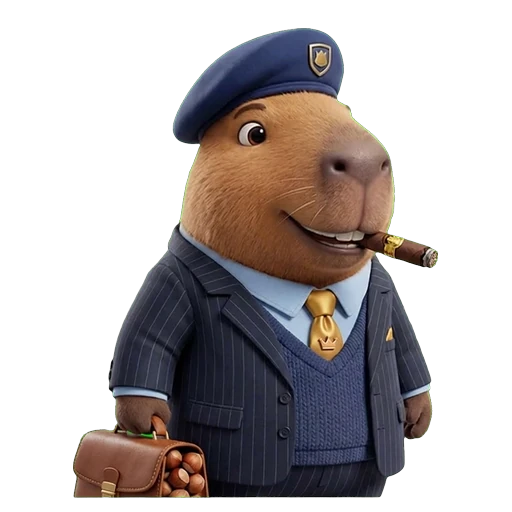
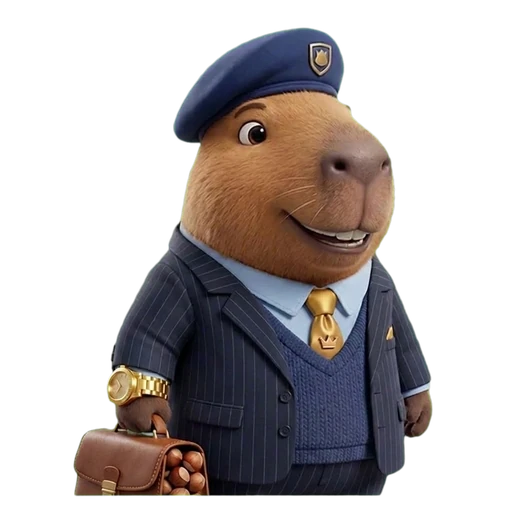
V492: Big Boss (Blue) without cigar, chunky gold wristwatch instead
Claude-Session: https://claude.ai/code/session_019cECXHUE5xem2kLmZwD2ZK

diff --git a/site/index.html b/site/index.html
@@ -2787,7 +2787,7 @@ if(window.caches)p.push(caches.keys().then(function(ks){return Promise.all(ks.ma
 </div>
 
 <script>
-const GAME_VER = "V491";
+const GAME_VER = "V492";
 const LIN = { n: [11, 65], hp: [15.6, 1320.8], sp: [1.28, 1.67], g: [0.87, 0.61] };   /* V485: Start W1 → Ende W150, linear (Martin 08.11.) */
 function lin(k, w) { const a = LIN[k]; return a[0] + (a[1] - a[0]) * (Math.max(1, Math.min(150, w)) - 1) / 149; }
 /* ===== V456: Sprachschicht ===== */
